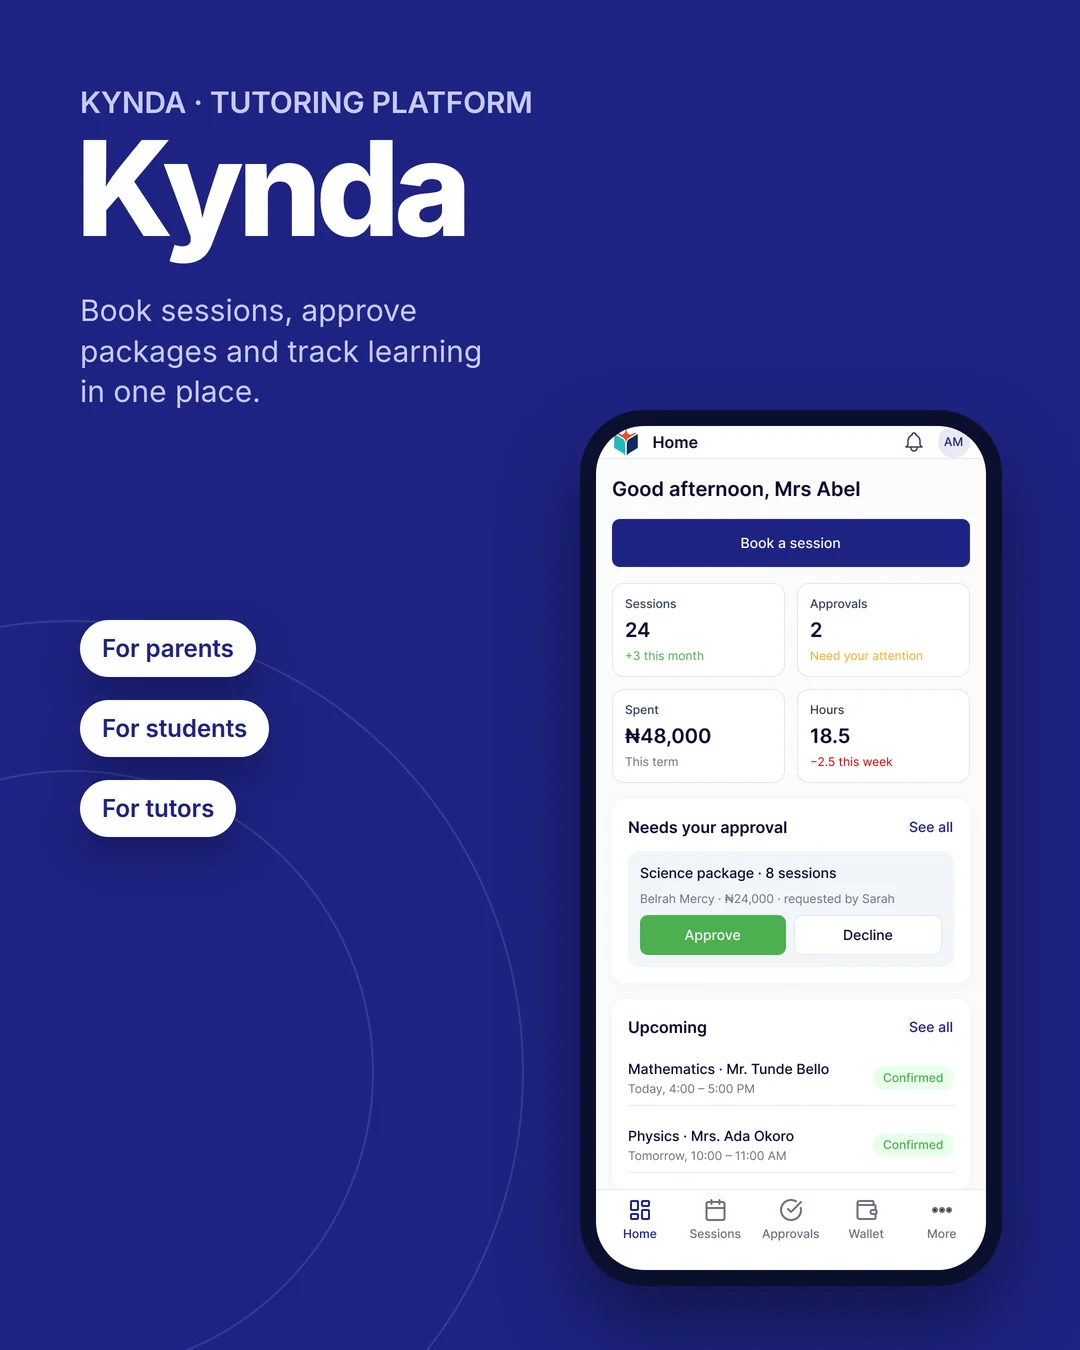
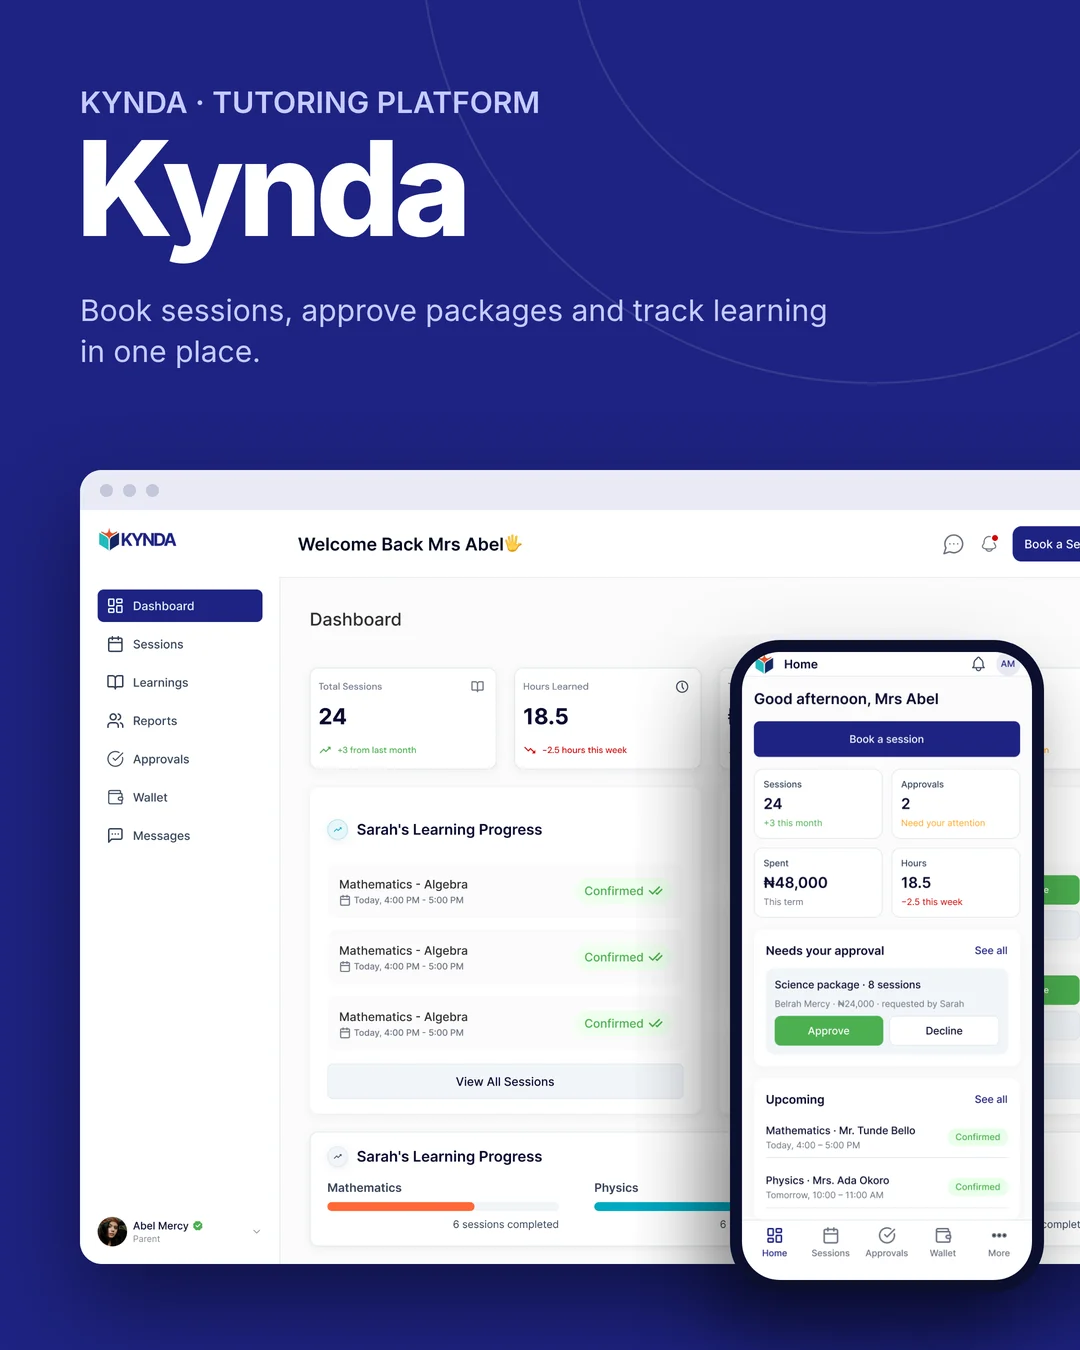
Use Parent Dashboard for Kynda cover, add WadeScribe cover
- Kynda: cover now pairs the desktop Parent Dashboard with the mobile
  Parent Home screen from the KYNDA-UI Figma file.
- WadeScribe: cover built from the Today and Timetable screens of the
  WadeScribe mobile prototype.

Claude-Session: https://claude.ai/code/session_014GpSsLAYL4aqJq6u4uSa7d

diff --git a/index.html b/index.html
@@ -926,9 +926,13 @@
           <div class="projects">
             <a class="project reveal scale" href="wadescribe.html"
               ><div class="project-visual">
-                <div class="placeholder">
-                  <b>WADESCRIBE</b><span>View case study ↗</span>
-                </div>
+                <img
+                  src="images/wadescribe-cover.webp"
+                  alt="WadeScribe app screens: Today home and the class timetable"
+                  width="1080"
+                  height="1350"
+                  loading="lazy"
+                />
               </div>
               <div class="project-info">
                 <div>
